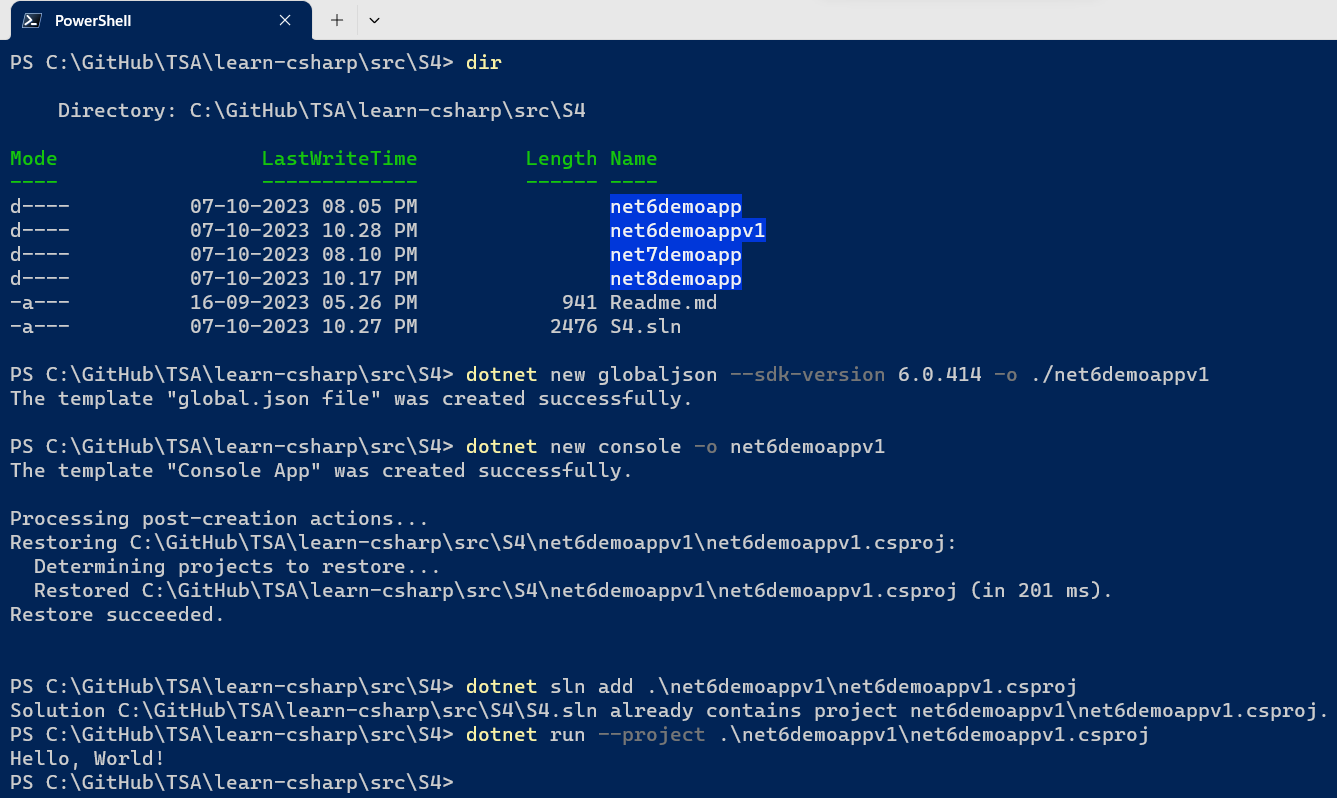
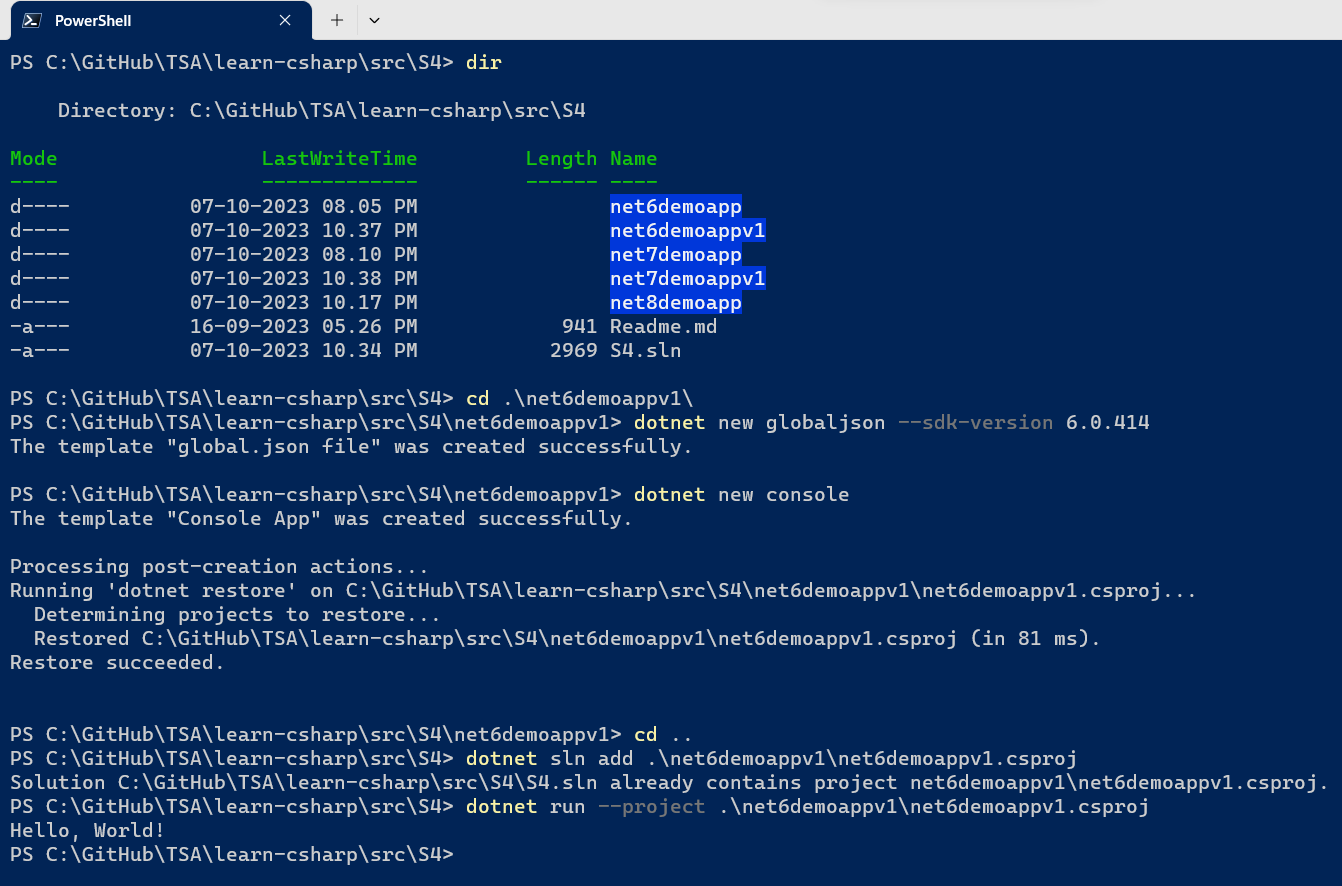
.NET 7 Project

diff --git a/src/S4/net6demoappv1/Program.cs b/src/S4/net6demoappv1/Program.cs
@@ -1,2 +1,2 @@
 // See https://aka.ms/new-console-template for more information
-Console.WriteLine("Hello, net6demoappv1 World!");
+Console.WriteLine("Hello, World!");

diff --git a/documentation/S4.md b/documentation/S4.md
@@ -116,13 +116,15 @@ dotnet run --project .\net8demoapp\net8demoapp.csproj
 ### 4.1. Creating a Console Application with .NET 6
 
 > 1. Discussion and demo
-> 1. Create a folder named `net6demoappv1` and open the folder in VS Code Terminal / Terminal
+> 1. Create a folder named `net6demoappv1`, change directory and open the folder in VS Code Terminal / Terminal
 > 1. Run the below commands
 
 ```powershell
-dotnet new globaljson --sdk-version 6.0.414 -o ./net6demoappv1
+dotnet new globaljson --sdk-version 6.0.414
 
-dotnet new console -o net6demoappv1
+dotnet new console
+
+cd ..
 
 dotnet sln add .\net6demoappv1\net6demoappv1.csproj
 
@@ -134,13 +136,15 @@ dotnet run --project .\net6demoappv1\net6demoappv1.csproj
 ### 4.2. Creating a Console Application with .NET 7
 
 > 1. Discussion and demo
-> 1. Create a folder named `net7demoappv1` and open the folder in VS Code Terminal / Terminal
+> 1. Create a folder named `net7demoappv1`, change directory and open the folder in VS Code Terminal / Terminal
 > 1. Run the below commands
 
 ```powershell
-dotnet new globaljson --sdk-version 7.0.401 -o ./net7demoappv1
+dotnet new globaljson --sdk-version 7.0.401
 
-dotnet new console -o net7demoappv1
+dotnet new console
+
+cd ..
 
 dotnet sln add .\net7demoappv1\net7demoappv1.csproj
 
